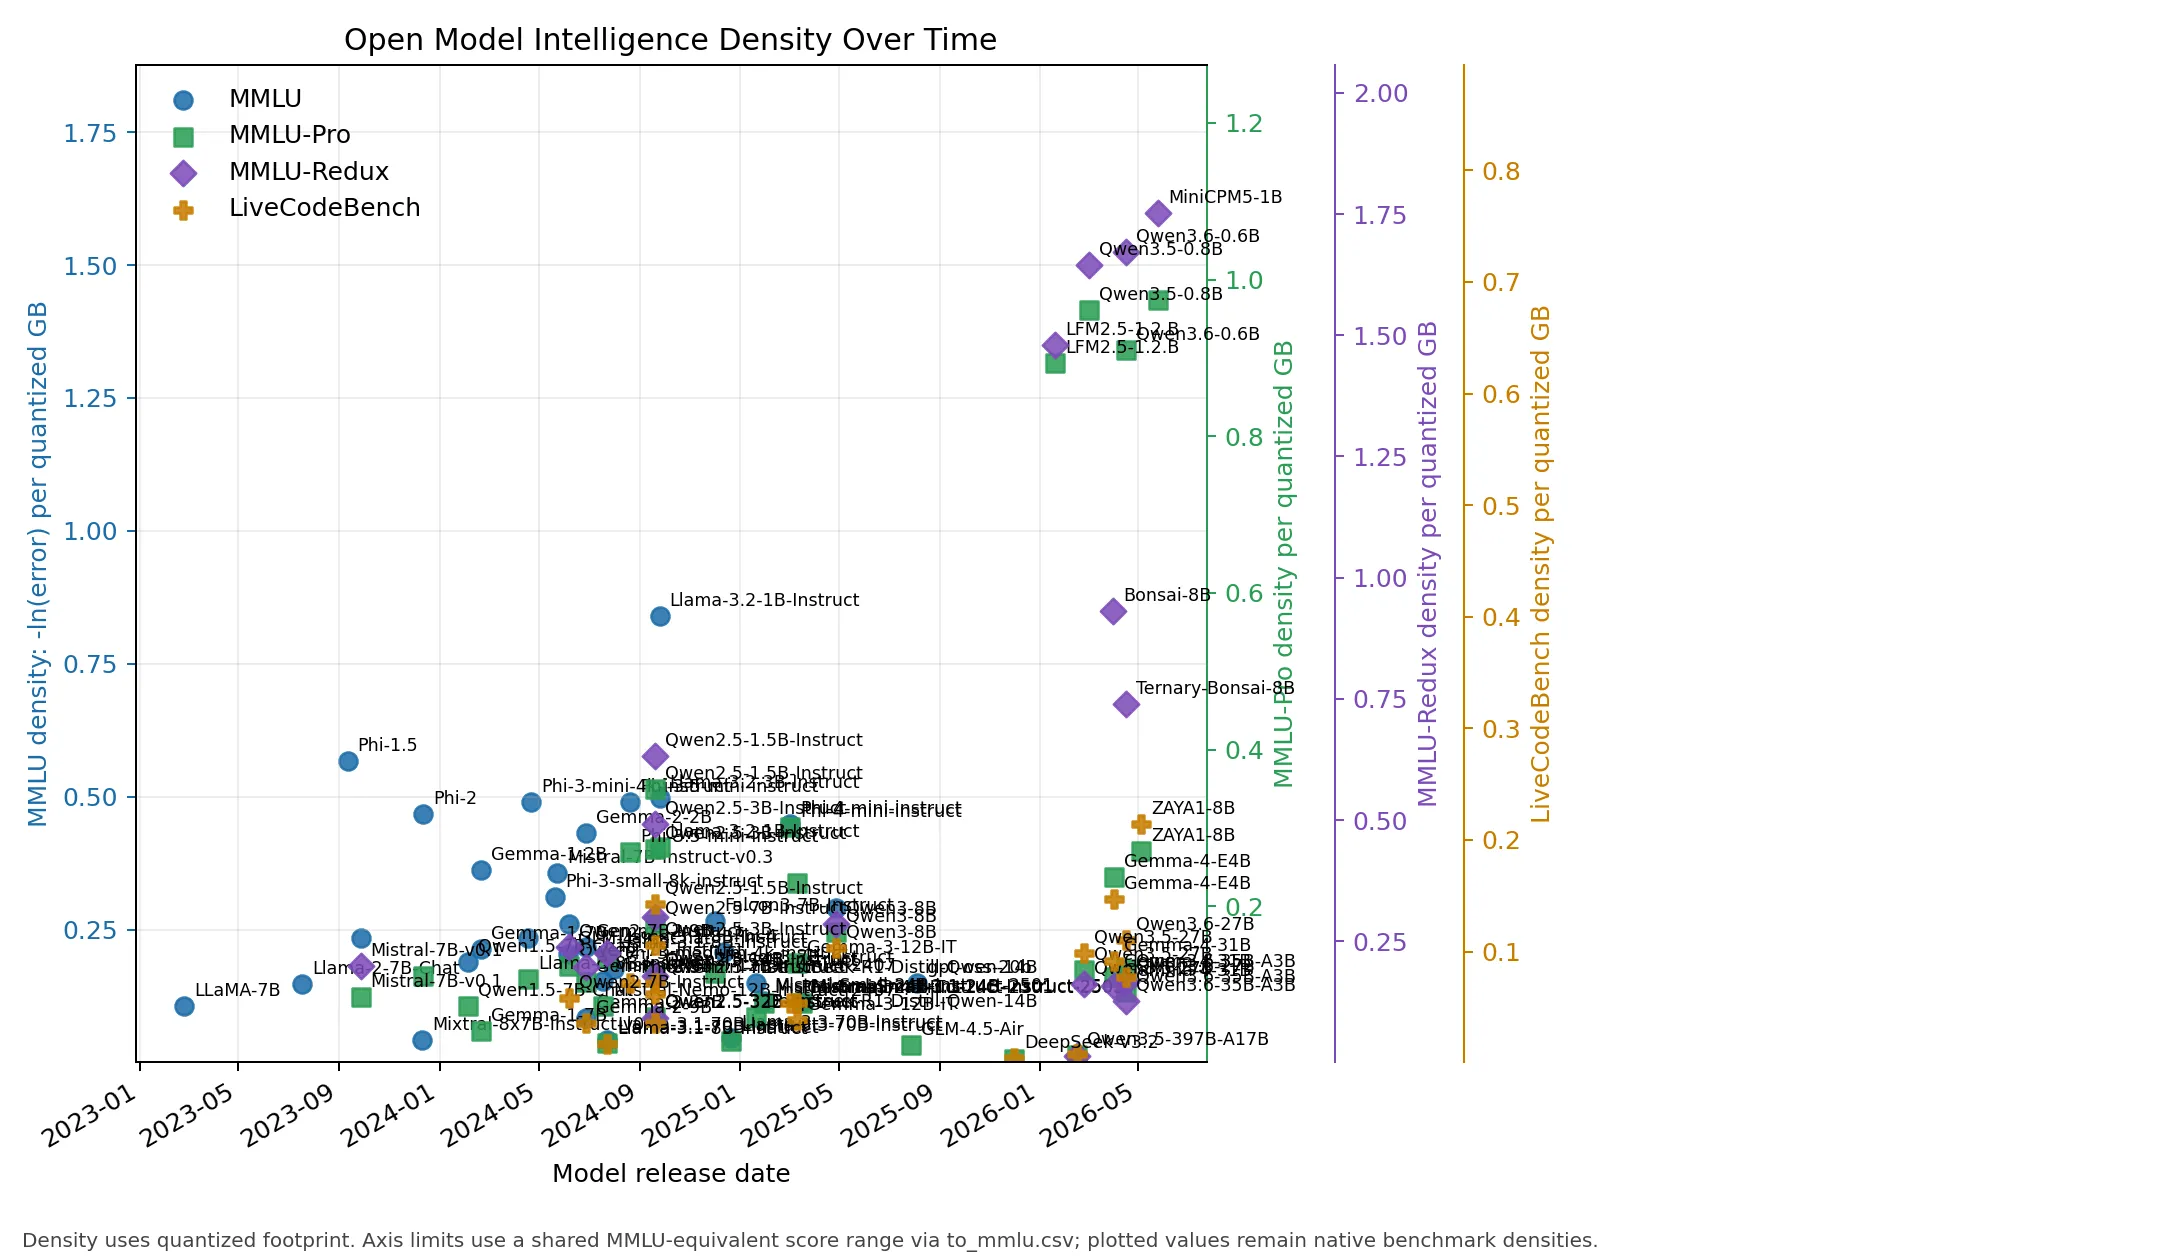
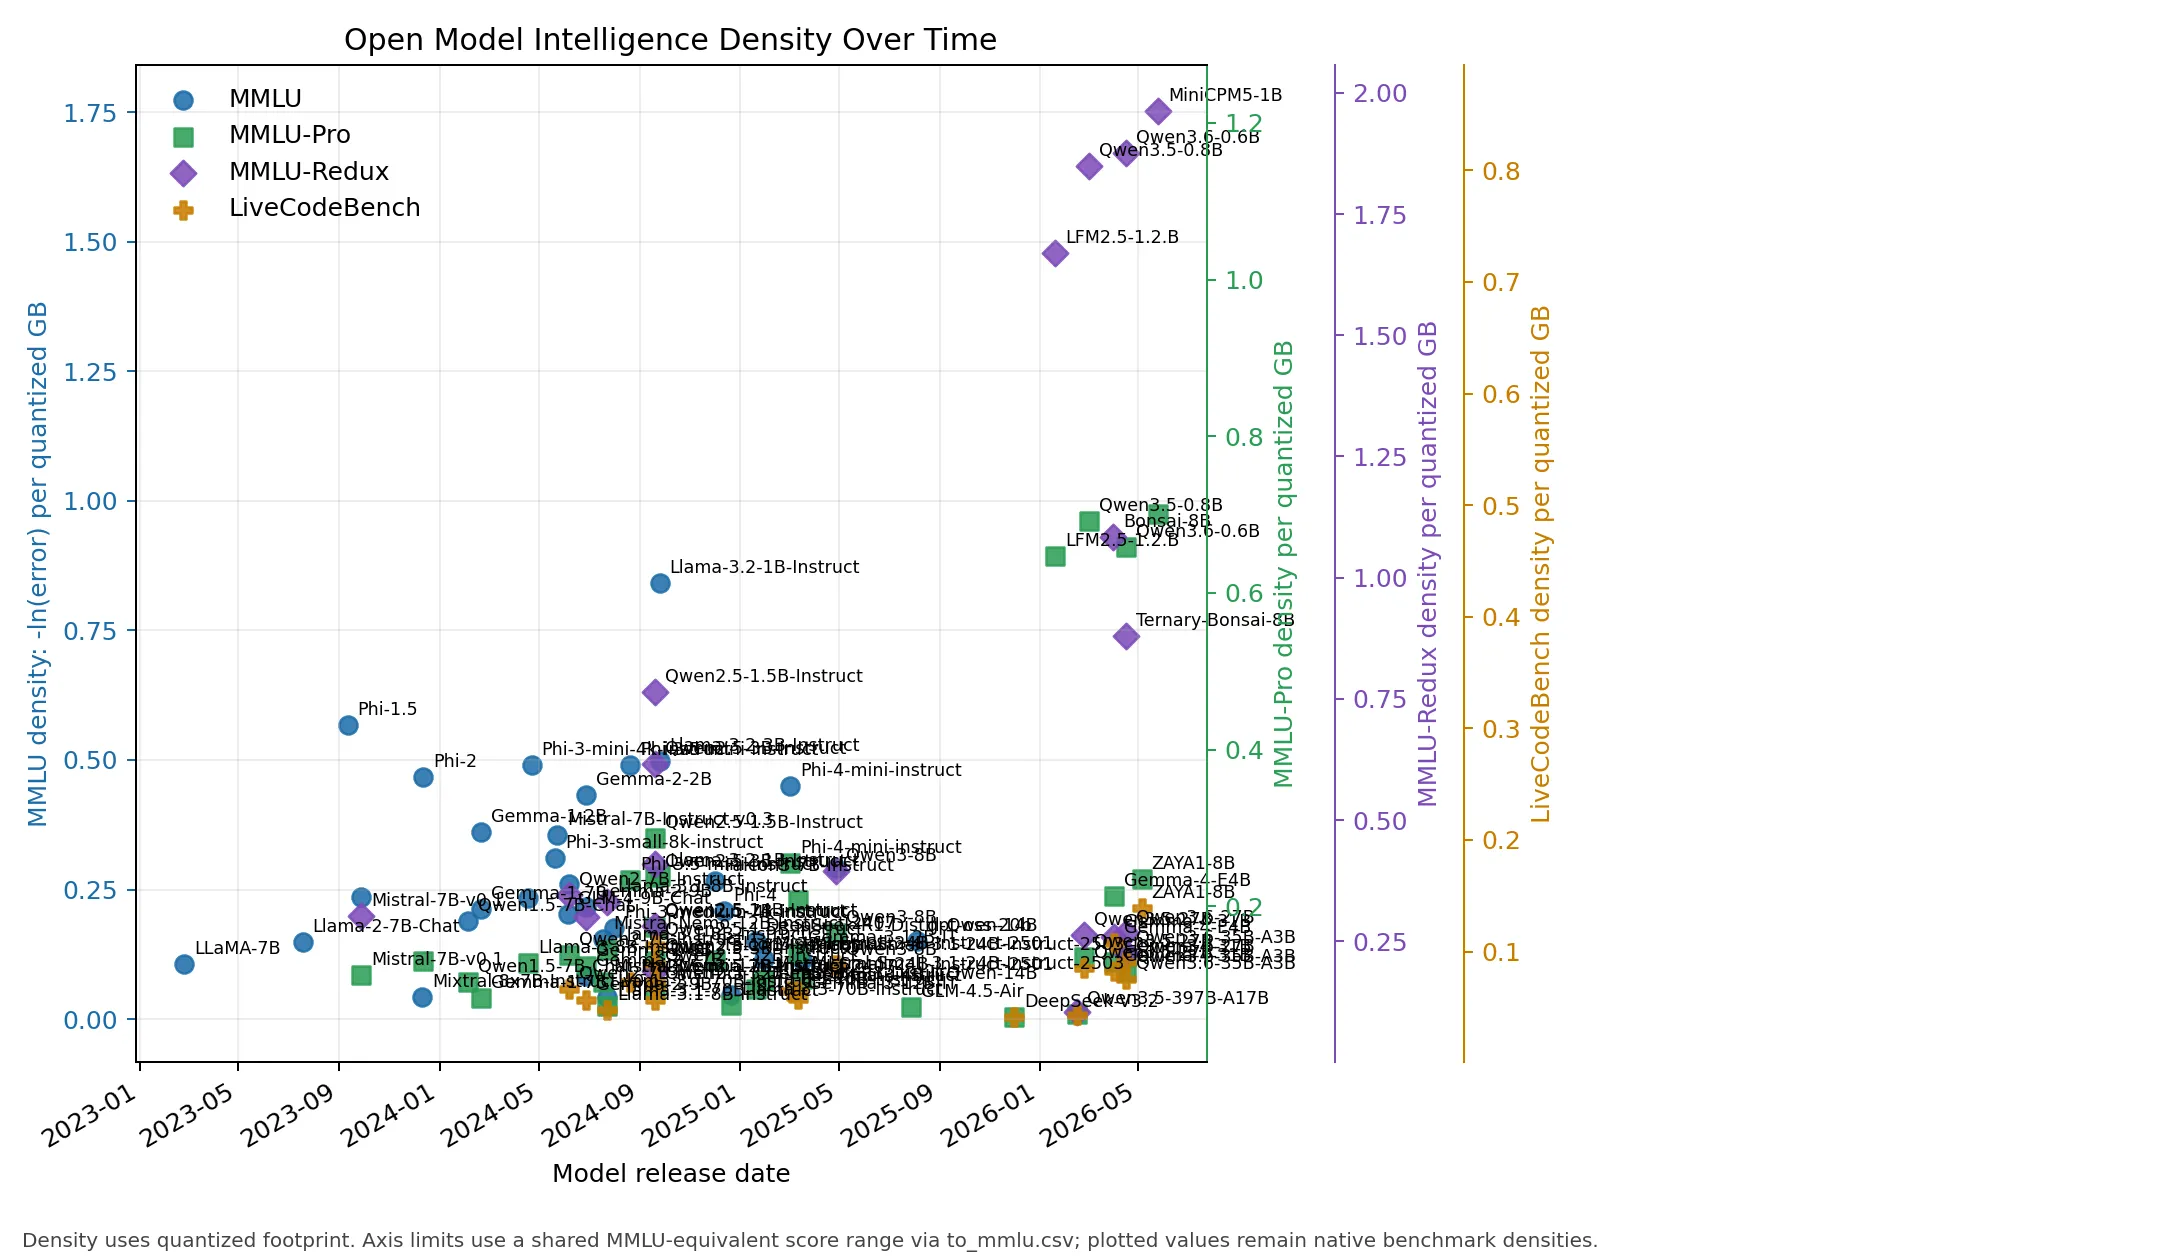
[intelligence-density] Fix clipping of models in plots by plotting all points on the primary axis.

diff --git a/intelligence-density/plot_density.py b/intelligence-density/plot_density.py
@@ -126,12 +126,14 @@ def main() -> None:
     markers = {"MMLU": "o", "MMLU-Pro": "s", "MMLU-Redux": "D", "LiveCodeBench": "P", "SWE-Bench-Pro": "^"}
 
     for benchmark in enabled_benchmarks:
-        ax = axis_for[benchmark]
+        # Plot everything on ax_mmlu to avoid clipping by twinned axes with different limits
         xs = [p[0] for p in points[benchmark]]
         ys = [p[1] for p in points[benchmark]]
-        ax.scatter(xs, ys, s=52, color=COLORS[benchmark], marker=markers[benchmark], label=benchmark, alpha=0.86)
+        ax_mmlu.scatter(xs, ys, s=52, color=COLORS[benchmark], marker=markers[benchmark], label=benchmark, alpha=0.86)
 
-    ax_mmlu.set_ylim(density(min_equiv, reference_size), density(max_equiv, reference_size))
+    # Autoscale Y axis to fit the actual densities being plotted
+    y_buffer = (max_density - min_density) * 0.05 if max_density > min_density else 0.1
+    ax_mmlu.set_ylim(min_density - y_buffer, max_density + y_buffer)
     for benchmark, ax in [
         ("MMLU-Pro", ax_pro),
         ("MMLU-Redux", ax_redux),
@@ -168,7 +170,7 @@ def main() -> None:
             kept_labels.append(candidate)
 
     for _mmlu_y, _native_collision_y, date, native_y, benchmark, label in kept_labels:
-        axis_for[benchmark].annotate(label, (date, native_y), xytext=(4, 4), textcoords="offset points", fontsize=7)
+        ax_mmlu.annotate(label, (date, native_y), xytext=(4, 4), textcoords="offset points", fontsize=7)
 
     ax_mmlu.set_title("Open Model Intelligence Density Over Time")
     ax_mmlu.set_xlabel("Model release date")